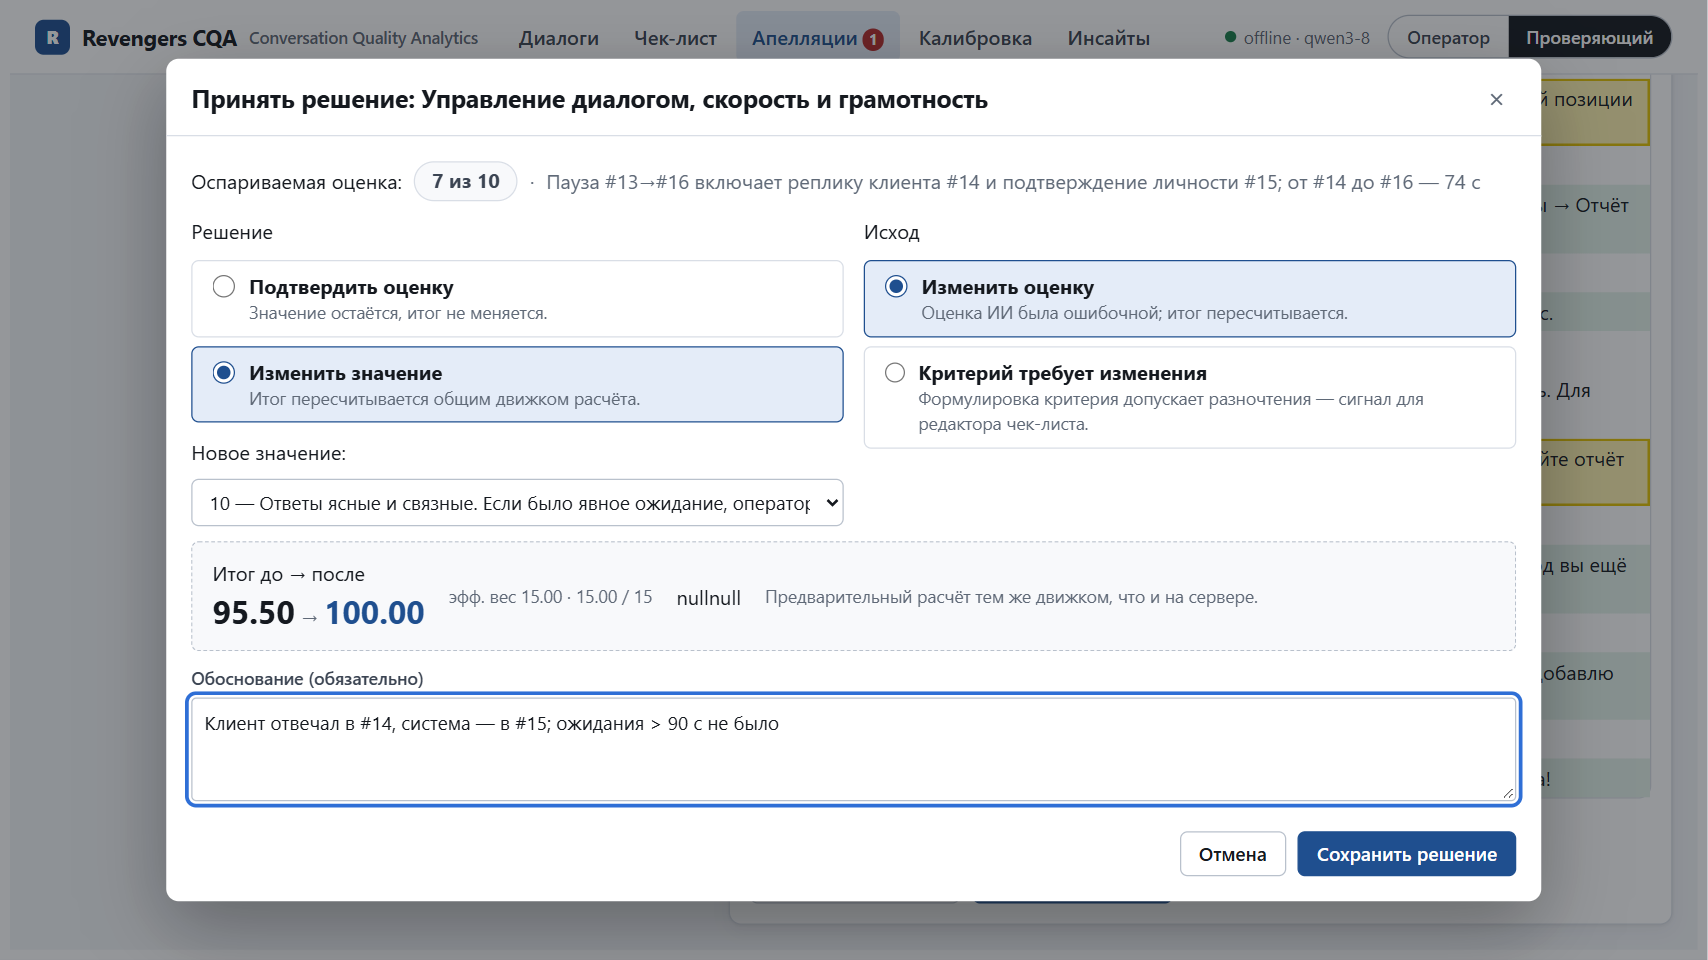
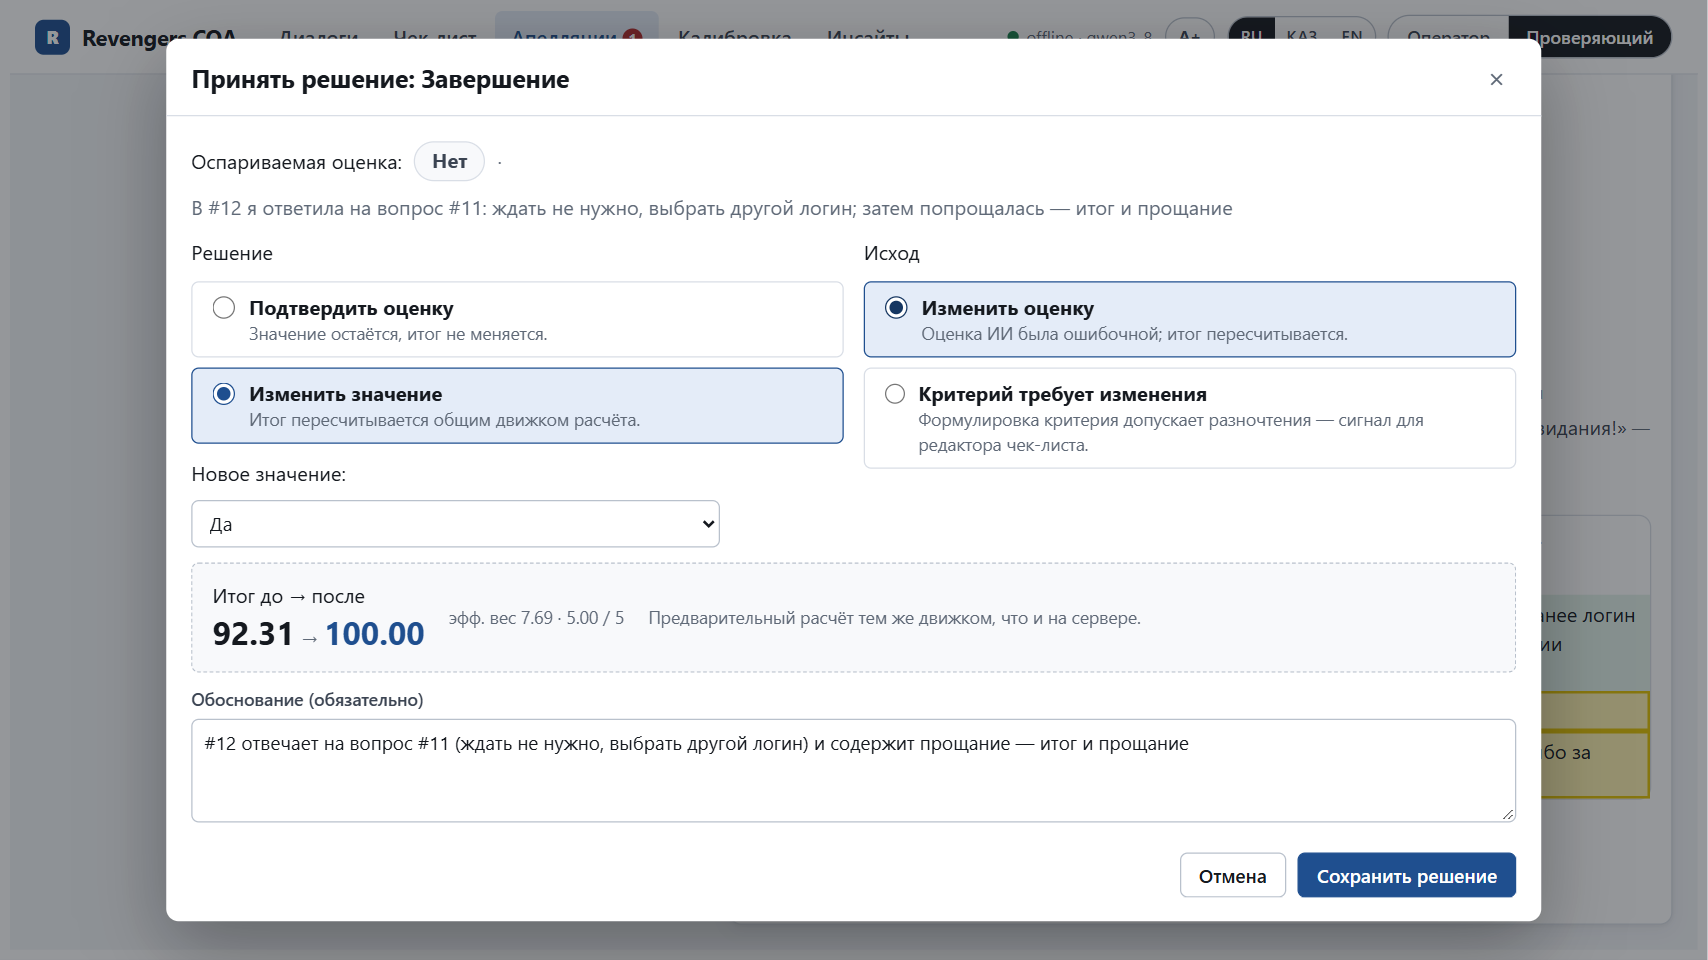
docs: appeal screenshots retaken on the current demo case (p1-ru-015, 92.31 → 100.00)

diff --git a/docs/img/README.md b/docs/img/README.md
@@ -2,7 +2,7 @@
 
 Сняты в Chrome при 1366×768, масштаб 125 %, набор DEV (65 диалогов), сохранённые результаты модели `qwen3-8` (чек-лист v1), сервер в режиме `offline` (в шапке «offline · qwen3-8»). Интерфейс русский, кроме 11 (казахский) и 12 (английский). Файлы 01, 02, 09, 10 пересняты 7 ноября вечером с новой шапкой (индикатор провайдера, **A+**, переключатель RU · ҚАЗ · EN, роль) и с оценками после переоценки DEV (эталон v1.1, «Оценено 07.11.2026, 22:51»); 11–13 добавлены тогда же; 03–08e сняты раньше, на прежнем интерфейсе. Файлы используются в README.md, docs/DEMO.md и в деке `pitch/`.
 
-**Снимки 01, 02, 05, 09, 10, 11, 12, 13 сняты после переоценки DEV в ночь на 8 ноября (прогон v6) и показывают текущие числа.** Снимки 03, 04, 06, 07, 08* сделаны раньше: интерфейс тот же, отдельные баллы могли измениться — актуальные значения в `results/dev/results.json`.
+**Снимки 01, 02, 05, 06, 07, 09, 10, 11, 12, 13 сняты после переоценки DEV в ночь на 8 ноября (прогон v6) и показывают текущие числа.** Снимки 03, 04, 08* сделаны раньше: интерфейс тот же, отдельные баллы могли измениться — актуальные значения в `results/dev/results.json`.
 
 | Файл | Что на экране |
 |---|---|
@@ -13,8 +13,8 @@
 | 04-voice.png | Звонок `p4-ru-003` (95.26): аудиоплеер после клика по доказательству — запись перемотана на 04:25 (реплика #49, данные счёта после идентификации в 03:41) |
 | 04b-voice-evidence.png | Тот же звонок: подсвеченная реплика #49 в транскрипте и критерий 03 с доказательством |
 | 05-gross.png | `p1-ru-023`: высокий итог 92.31 и красный блок «Грубая ошибка — обход компании» с цитатой #12 («Можете дать личный номер? … за плату объясню …»); статус «Требует проверки»; «Почему снижена оценка»: −7.69 за 07 |
-| 06-appeal.png | `p1-ru-010`, критерий 06 (7 из 10) после подачи апелляции оператором: метка «Под апелляцией», исходная оценка и доказательства видны, кнопка «К апелляции». Сейчас `p1-ru-010` оценён 06 = 10, итог 100.00 (ожидание считается от последнего сообщения клиента), поэтому демо-апелляция в `docs/DEMO.md` перенесена на `p1-ru-015` (07, 92.31 → 100.00); снимок показывает тот же экран апелляции |
-| 07-decision.png | Апелляции, роль «Проверяющий»: модальное окно «Принять решение» — «Изменить значение» → 10, исход «Изменить оценку», предпросмотр «Итог до → после» 95.50 → 100.00 (`p1-ru-010` по прежней оценке), обоснование |
+| 06-appeal.png | `p1-ru-015`, критерий 07 после апелляции оператора: метка «Под апелляцией», исходная оценка «Нет» и доказательства видны |
+| 07-decision.png | Роль «Проверяющий»: окно «Принять решение» по `p1-ru-015` — «Изменить значение» → Да, исход «Изменить оценку», предпросмотр «Итог до → после» 92.31 → 100.00, обоснование |
 | 08-checklist.png | Редактор чек-листа, версия-черновик v2: критерий 07 заменён шаблоном «Скорость первой реакции» (`rule:first_reaction`, вес 5); в строках кнопки «Изменить / Заменить / Удалить» |
 | 08b-editor.png | Форма нового критерия после выбора шаблона: код, секция, тип ответа, вес, оценщик (правило), условие N/A, подсказки модели |
 | 08c-diff.png | «Сравнить»: diff v1 → v2 — удалён 07 «Завершение», добавлен 09 «Скорость первой реакции» |
